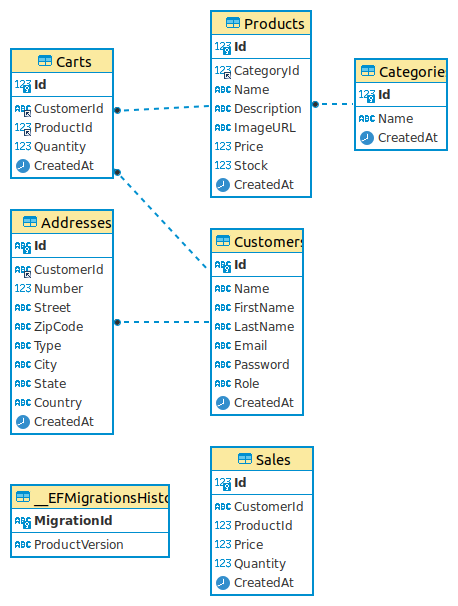
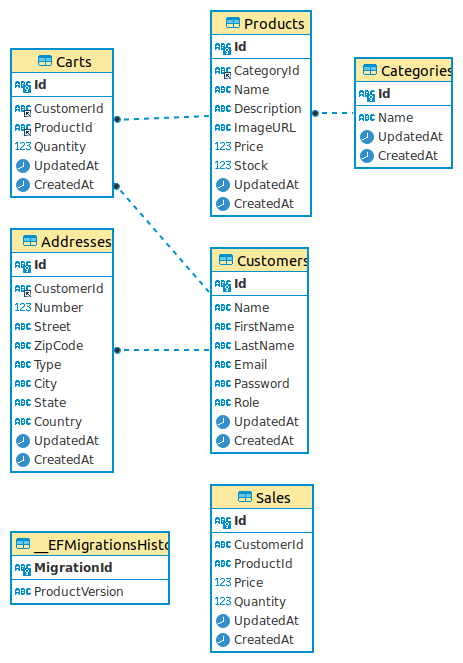
Docs:  update -> [dependencies, environment, migrations, docker] (#47)
* docs: update ERD (image)

* fix: env-example -> name

* docs: update README -> [dependencies, environment, migrations, docker]

diff --git a/docs/README.md b/docs/README.md
@@ -1,6 +1,9 @@
 # **ECommerce** - ASP.NET - [ API ]
 
 ## Dependencies
+- Docker Engine ^24.x
+- Docker Desktop ^4.x
+- Docker Compose  ^v2.x
 - Microsoft.NETCore.App 7^
 - Microsoft.AspNetCore.App 7^
 - Packages -> [pkg ECommerce](../src/ECommerce.csproj) | [pkg ECommerceTests](../tests/ECommerceTests.csproj)
@@ -11,11 +14,13 @@
    - [x] JWT Token [ *Bearer* ]
    - [x] CustomerIdentity
  - [x] **Authorization**:
-   - [x] Using Roles [ *manager, employee*]
+   - [x] Using Roles [ *manager, employee* ]
    - [x] EmployeeIdentity
  - [x] **Resources**:
-   - [x] Carts [ *owner* ]
    - [x] Customers [ *owner* ]
+     - [x] Carts [ *owner* ]
+     - [x] Addresses [ *owner* ]
+     - Post [ *public* ]  
    - [x] Categories:
      - Get [ *public* ]
      - Post, Patch, Delete [ *manager, employee* ]
@@ -28,25 +33,47 @@
 
 
 ## Usage
+- **Environment** in [env-example](../src/env-example):
+  ```sh
+    # copy env-example to .env
+    # src/
+    cp env-example .env
+  ```
 
-- **ConnectionStrings** in [appsettings](../src/appsettings.json):
-  - DefaultConnection -> "Server={localhost};DataBase={ECommerce};Uid={root};Pwd={12345}"
+  ```sh
+    PRIVATE_KEY="needs to contain 80 ~ 120"
+    TOKEN_EXPIRES=5 # UtcNow + TOKEN_EXPIRES
 
-- **Environment** in [appsettings](../src/appsettings.json):
-  - PrivateKey -> needs to contain 80 ~ 120 characters
-  - TokenExpires -> default 5 | [UtcNow.AddHours(TokenExpires)](../src//Modules/Session/TokenService.cs)
+    DB_HOST=localhost
+    DB_NAME=ECommerce
+    DB_USER=root
+    DB_PASS=12345
+  ```
 
 - **Docker** in [.docker](../.docker/docker-compose.yml):
   - Build container with **mysql:latest**
     ```sh
     # rootUser=root / rootPassword=12345 / database=ECommerce
+    # .docker/
     docker-compose up -d
     ```
+  
+  - After uploading the container **create** the first **migration** and update the database
+    ```sh
+    # src/
+    dotnet ef migrations add initial
+
+    dotnet ef database update
+    ```
+
   - To access the instance in the container
     ```sh
-    # Sudo
     docker exec -it ecommerce-mysql mysql -uroot -p
+    # or
+    # .docker/
+    docker compose exec mysql mysql -uroot -p
     ```
+
   - To **add** a customer and **make** them an **manager**
     ```sh
     # After uploading the container;
@@ -66,6 +93,6 @@
 - See:
   - Entities -> [Models](../src/Models)
   - Relationship -> [Database Context](../src/Context/DatabaseContext.cs)
-> ERD print 08/08/23
+> ERD print 18/08/23
 
 ![ERD](ERD-ECommerce.png)
